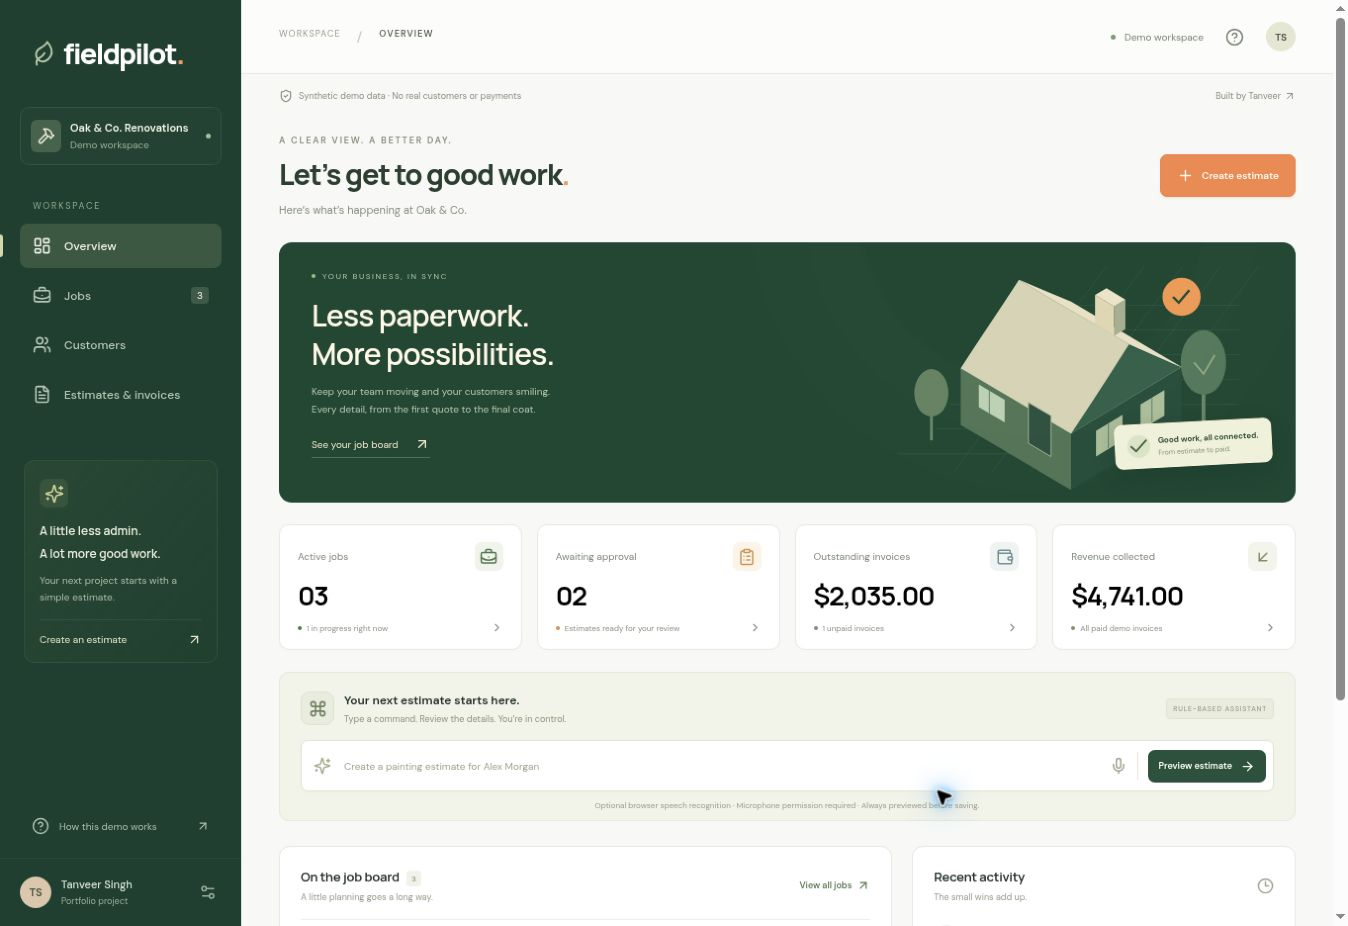
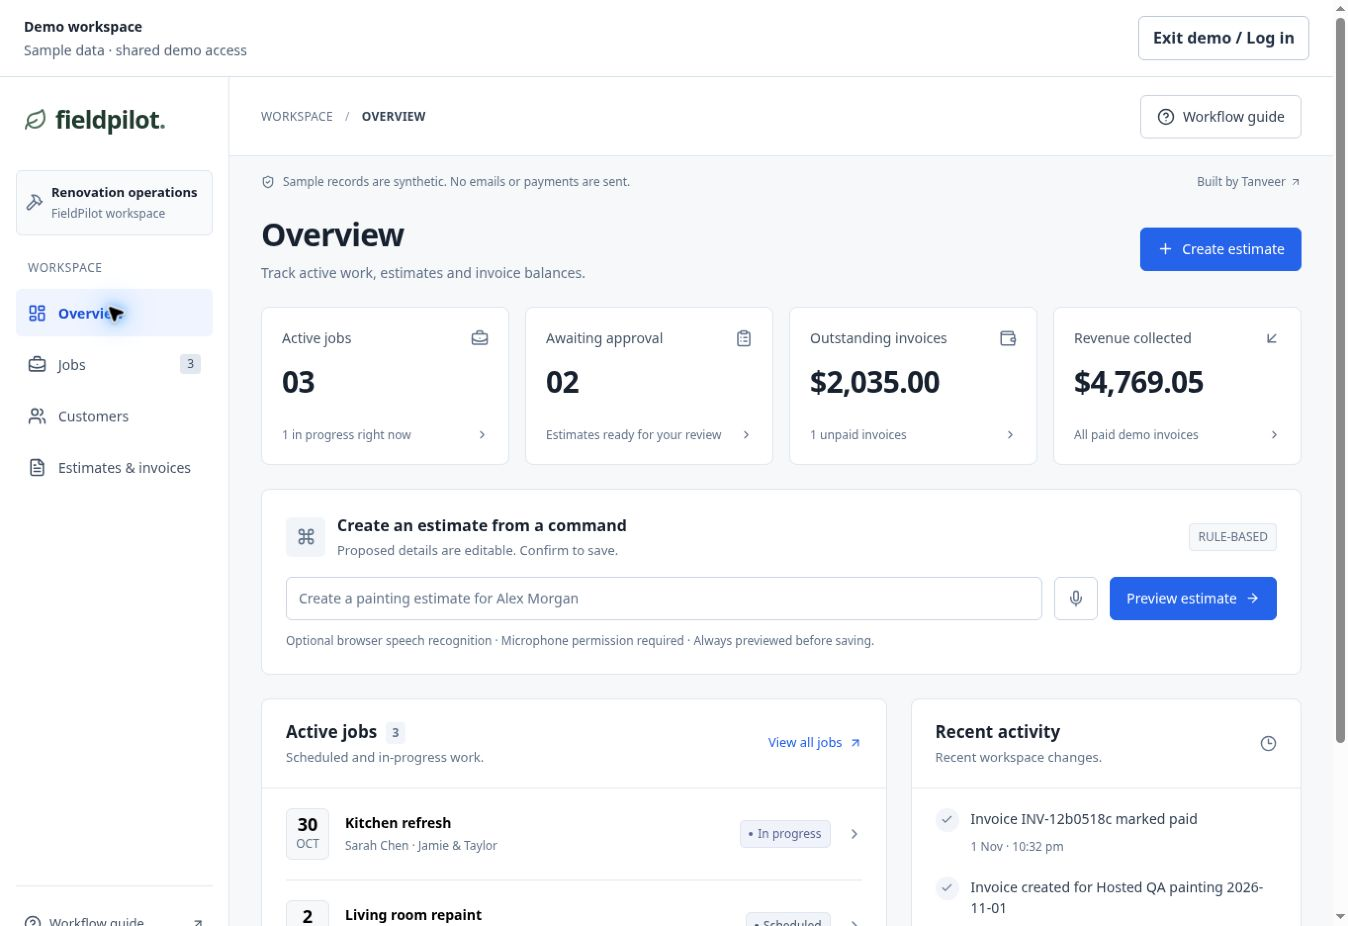
docs: record hosted authorization checks and readable interface preview

diff --git a/docs/verification.md b/docs/verification.md
@@ -1,6 +1,6 @@
 # Verification record
 
-Verified on 31 October 2026. This is an engineering portfolio demo using synthetic data.
+Hosted demo workflow reverified on 1 November 2026. Earlier local and database evidence retains its stated date. This is an engineering portfolio demo using synthetic data.
 
 ## Local quality checks
 
@@ -11,11 +11,27 @@ Verified on 31 October 2026. This is an engineering portfolio demo using synthet
 
 The checked-in GitHub Actions workflow runs installation, tests, types, formatting and a production build on pushes and pull requests. It does not deploy or receive production credentials.
 
-## Earlier hosted demo workflow check
+## Hosted demo workflow check — 1 November 2026
 
-In the hosted browser, a typed painting command produced an editable preview. Explicit confirmation saved an estimate; approval created a scheduled job. Starting and completing that job enabled invoice creation. Marking the invoice paid updated the ledger, and reloading preserved the paid status and derived revenue. The command preview did not save until confirmation.
+Tested the deployed application at https://fieldpilot-pied.vercel.app/ in a new cloud-browser tab. The page first showed the account gate with Log in, Create account and Try demo options. No account credentials were entered and no signup email was requested. Try demo opened the separate synthetic demo workspace.
 
-Live demo: https://fieldpilot-pied.vercel.app
+The complete workflow passed through visible controls:
+
+1. Entered `Create a painting estimate for Alex Morgan`. An editable preview proposed a $2,150.00 subtotal, $215.00 tax and $2,365.00 total. Canceling returned to the unchanged two-estimate awaiting-approval count.
+2. Reopened the preview, changed its title to `Hosted QA painting 2026-11-01` and changed the materials price to $375.50. The preview recalculated subtotal $2,175.50, tax $217.55 and total **$2,393.05**.
+3. Explicit confirmation created estimate `EST-bd03f45b`. Its document row showed Awaiting approval and the edited total.
+4. Approving that estimate created scheduled job `JOB-0c0610dc`. Starting and completing it moved the job through the corresponding board lanes.
+5. The completed job generated invoice `INV-12b0518c`, preserving the approved line items and **$2,393.05** total. Its job card then showed Invoiced rather than another invoice-creation action.
+6. Marking the invoice paid changed its ledger row to Paid. A full browser reload retained the approved estimate and paid invoice; reopening Invoices showed the same ID, amount and status.
+7. After reload, the overview showed three active jobs, two estimates awaiting approval, $2,035.00 outstanding and **$4,769.05** collected revenue ($2,376.00 existing paid seed invoice + $2,393.05 QA invoice).
+
+The current neutral desktop interface was visually inspected: aligned equal-height metric cards, white/slate surfaces, restrained blue actions, readable document rows and no ornamental hero. No blocking workflow or visible desktop layout defect was found. Microphone recognition and narrow-device behavior were not exercised in this run.
+
+`docs/preview.jpg` is the new clean overview screenshot captured after the persisted workflow. A separate screenshot of the paid invoice ledger was also captured for review. Both captures came directly from the hosted browser through its documented shared-file synchronization path.
+
+## Account browser verification limit
+
+The unauthenticated gate and Try demo path were verified in the browser. A full provider signup → confirmation email → login → account workspace journey remains **unverified**. The rollback-only hosted database role assertions below are separate evidence and must not be described as an end-to-end provider browser test.
 
 ## Account security verification
 
